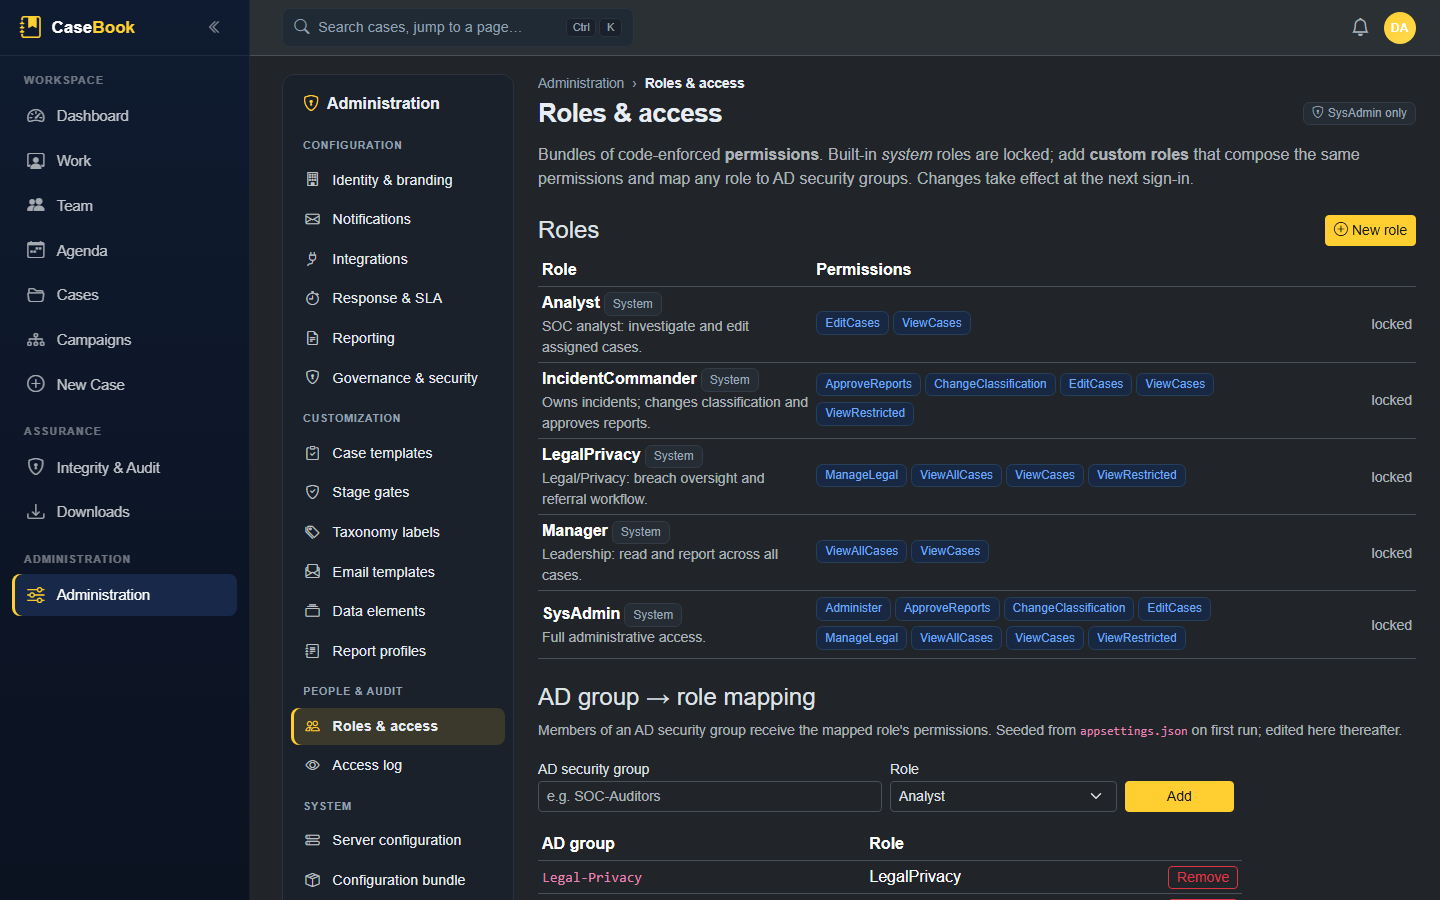
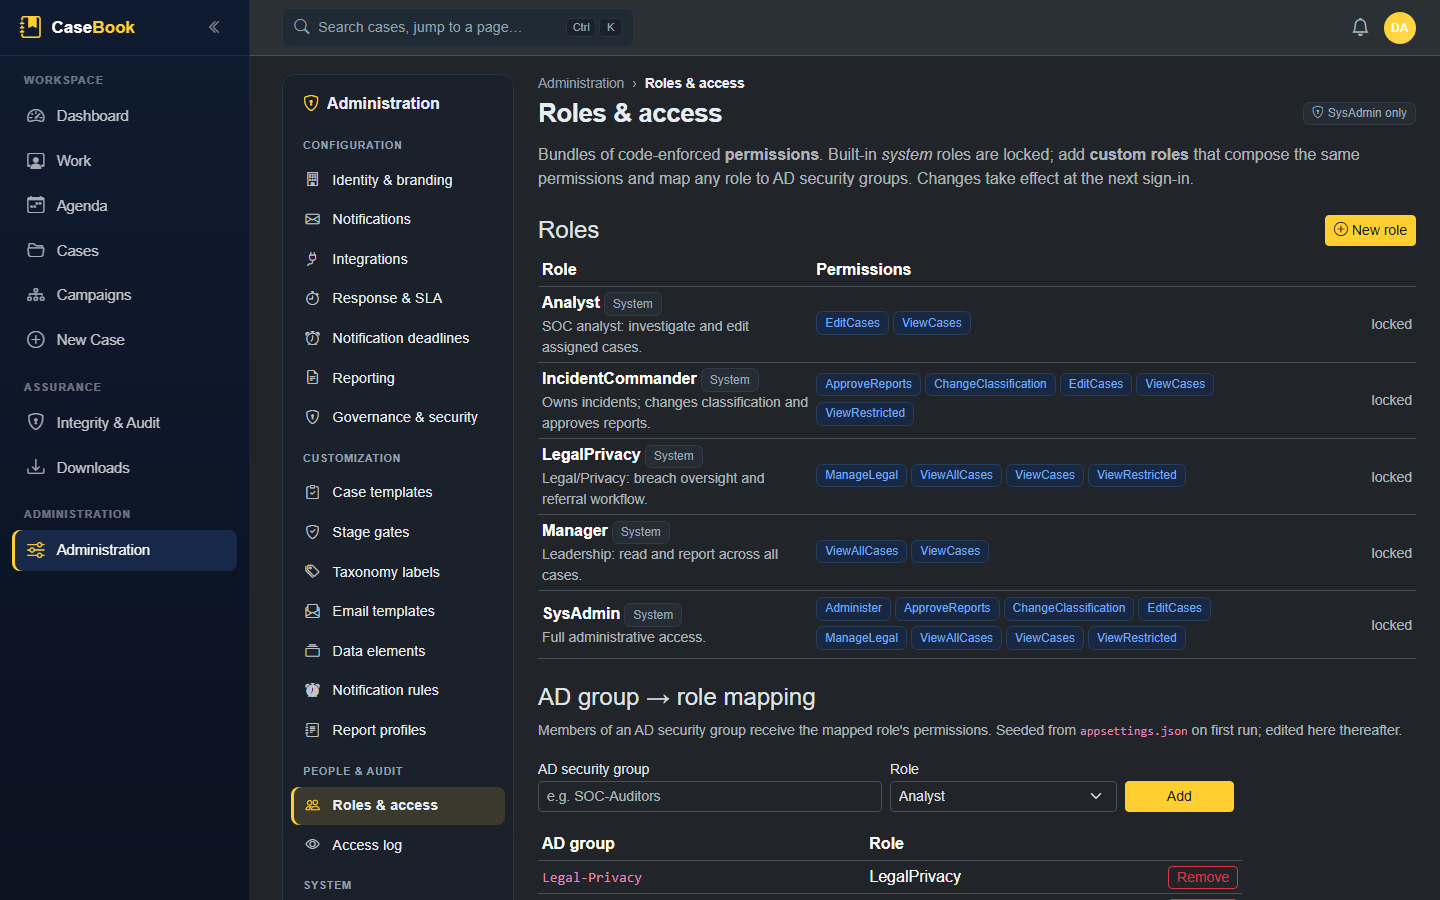
Refresh README screenshots + showcase compliance features (H-10)
Regenerate all screenshots against a fresh reseed and add two new shots for
this session's marquee work, so the README reflects the current UI (nav
consolidation, saved-views bar, materiality + notification-deadline badges).

- capture.mjs: add `discussion` (PROD-04 thread) and `notification-rules`
  (PROD-07 per-jurisdiction admin) shots — now 16.
- DevDataSeeder: a demo-only SeedComplianceShowcaseAsync (called only from
  InitializeAsync's demo path, so the SeedAsync base set tests use is
  unchanged) turns on the notification-deadline clock, tags data-element
  jurisdictions, records materiality on both breaches (one with a running
  per-jurisdiction deadline, one already reported), and seeds a short
  discussion thread — so the badges, the regulatory-notification countdown,
  the dashboard compliance block, and the Discussion tab all have content.
- README: new "Team discussion & @mentions" and "Notification deadlines"
  sections; refreshed the dashboard, case-workspace, administration, and
  config-bundle descriptions to mention materiality, notification deadlines,
  and the discussion tab.

Integration suite unchanged: 253 green.

diff --git a/src/IncidentManager.Infrastructure/Persistence/DevDataSeeder.cs b/src/IncidentManager.Infrastructure/Persistence/DevDataSeeder.cs
@@ -45,6 +45,90 @@ public static class DevDataSeeder
         // phase mix are populated out of the box. Kept OUT of SeedAsync so tests that call SeedAsync
         // directly still see exactly the three hand-authored cases.
         await SeedHistoricalDemoAsync(db, clock, ct);
+        // Lights up the compliance features (PROD-18 materiality + PROD-07 notification deadlines) and PROD-04
+        // discussion on the demo cases so they are visible in the app and README screenshots. Demo-only (not
+        // in SeedAsync), so tests that seed the base cases are unaffected.
+        await SeedComplianceShowcaseAsync(db, clock, ct);
+    }
+
+    /// <summary>
+    /// Demo-only showcase (not seeded in production or in the test base set): turns on the notification-deadline
+    /// clock, tags the notification jurisdictions the demo data elements trigger, records a materiality
+    /// determination on the two breaches (one with a running per-jurisdiction deadline, one already reported),
+    /// and adds a short discussion thread — so the materiality badge, the regulatory-notification countdown,
+    /// the dashboard compliance block, and the Discussion tab all have real content to show.
+    /// </summary>
+    public static async Task SeedComplianceShowcaseAsync(AppDbContext db, IClock clock, CancellationToken ct = default)
+    {
+        var now = clock.UtcNow;
+
+        // 1) Turn the feature on for the demo instance (a DB override over the OFF appsettings default).
+        if (!await db.AppSettings.AnyAsync(s => s.Key == "Compliance:NotificationDeadlines:Enabled", ct))
+            db.AppSettings.Add(new AppSetting
+            {
+                Key = "Compliance:NotificationDeadlines:Enabled", Value = "true",
+                UpdatedAtUtc = now, UpdatedBy = "system"
+            });
+
+        // 2) Tag which jurisdictions each personal-data category triggers notification in (also drives the
+        //    report's X-03 grouping). Applied only where an admin hasn't already set a value.
+        var juris = new Dictionary<string, string>(StringComparer.Ordinal)
+        {
+            ["SocialSecurityNumber"] = "US, NY",
+            ["FinancialAccountNumber"] = "US",
+            ["PaymentCard"] = "US",
+            ["MedicalOrHealthInfo"] = "NY",
+            ["DateOfBirth"] = "NY",
+        };
+        foreach (var e in await db.DataElements.Where(e => juris.Keys.Contains(e.Key)).ToListAsync(ct))
+            if (string.IsNullOrWhiteSpace(e.NotificationJurisdictions))
+            {
+                e.NotificationJurisdictions = juris[e.Key];
+                e.ModifiedBy = "system";
+                e.ModifiedAtUtc = now;
+            }
+        await db.SaveChangesAsync(ct);
+
+        // 3) Phishing breach — a live, still-open notification obligation: material, impact recorded, no report
+        //    filed yet, so the per-jurisdiction countdown is running (well inside its 72h window).
+        var phishing = await db.Cases.Include(c => c.DataElements)
+            .FirstOrDefaultAsync(c => c.CaseNumber == "2026-01_Phishing_Wave", ct);
+        if (phishing is not null)
+        {
+            phishing.SetImpactAssessment(1450, new[] { "SocialSecurityNumber", "DateOfBirth", "OnlineCredentials" },
+                "NY, NJ", "system", now.AddDays(-4));
+            phishing.RecordMateriality(MaterialityStatus.Material, "Disclosure Committee", now.AddDays(-1),
+                "NY resident NPI (SSNs) confirmed exposed — reasonable likelihood of harm; NYDFS Part 500 applies.",
+                "legal1", now.AddDays(-1));
+
+            db.CaseComments.Add(new CaseComment
+            {
+                CaseId = phishing.Id, Body = "Handing off to day shift — mailbox rules cleared, creds reset. "
+                    + "Legal has the affected-user list; awaiting the materiality call.",
+                CreatedBy = "ic1", CreatedAtUtc = now.AddDays(-2)
+            });
+            db.CaseComments.Add(new CaseComment
+            {
+                CaseId = phishing.Id, Body = "Disclosure committee determined this **material**. NYDFS 72h clock is running — "
+                    + "please confirm the NY + federal notification drafts.",
+                CreatedBy = "legal1", CreatedAtUtc = now.AddDays(-1)
+            });
+            await db.SaveChangesAsync(ct);
+        }
+
+        // 4) Vendor breach — the obligation was met: material, impact recorded, and reported to regulators, so
+        //    it feeds the dashboard's detected → reported mean and shows a "Met" deadline outcome.
+        var vendor = await db.Cases.Include(c => c.DataElements)
+            .FirstOrDefaultAsync(c => c.CaseNumber == "2026-02_Vendor_SaaS_Breach", ct);
+        if (vendor is not null)
+        {
+            vendor.SetImpactAssessment(320, new[] { "SocialSecurityNumber", "ClaimsData", "MedicalOrHealthInfo" },
+                "NY", "system", now.AddDays(-3));
+            vendor.RecordMateriality(MaterialityStatus.Material, "General Counsel", now.AddDays(-2),
+                "Vendor-confirmed exposure of policyholder NPI.", "legal1", now.AddDays(-2));
+            vendor.MarkReported(now.AddDays(-2).AddHours(20), "legal1", now.AddDays(-2).AddHours(20));
+            await db.SaveChangesAsync(ct);
+        }
     }
 
     /// <summary>

diff --git a/README.md b/README.md
@@ -11,17 +11,21 @@ auto-generated Word/PDF reports, on a **tamper-evident, hash-chained audit trail
 
 ### Leadership dashboard
 Headline open-items tile with classification mix, attention stats, an open-items-by-phase pipeline,
-response times against SLA targets, and a **12-month case-activity bar chart** (opened vs. closed) plus
-an open-items sparkline — all derived from case timestamps — with one-click metrics CSV export (incl.
-monthly & quarterly rollups) for board / regulatory packs.
+response times against SLA targets, a **regulatory-notification** compliance block (detected→reported
+mean, awaiting-report, and at-risk/overdue deadlines), and a **12-month case-activity bar chart** (opened
+vs. closed) plus an open-items sparkline — all derived from case timestamps — with one-click metrics CSV
+export (incl. monthly & quarterly rollups) for board / regulatory packs.
 
 ![Leadership dashboard](docs/screenshots/dashboard.png)
 
 ### Case workspace
 The analyst's hub: a NIST SP 800-61 lifecycle bar, tabbed **Overview / Timeline / Entities /
-Evidence / Notes / Tasks / Report / Audit**, true **detected / occurred** timestamps (with
+Evidence / Notes / Discussion / Tasks / Report / Audit**, true **detected / occurred** timestamps (with
 dwell-before-detection and per-severity SLA targets), **links to related cases**, and a structured
-impact assessment (affected individuals, data-element taxonomy, and jurisdictions).
+impact assessment (affected individuals, data-element taxonomy, and jurisdictions). The header carries
+at-a-glance status badges — SLA, **materiality** (material / not material, a Legal/committee decision the
+tool records but does not make), and the **regulatory notification** countdown — alongside the classic
+classification/severity/legal chips.
 
 ![Case workspace](docs/screenshots/case-workspace.png)
 
@@ -40,6 +44,14 @@ Two separate chronologies per case — the **event** timeline (facts and timing 
 **investigation** timeline (analyst/team actions) — each typed, sourced, and audited.
 
 ![Timeline](docs/screenshots/timeline.png)
+
+### Team discussion &amp; @mentions
+A durable, **hash-chained** discussion thread per case (part of the audited record, unlike ephemeral
+presence) for cross-role handoffs — Markdown, one-level replies, and **@mentions** that notify the
+mentioned teammates through the notification pipeline (email and/or chat). Open to everyone who can see
+the case, so an analyst, IC, and Legal work from one shared trail.
+
+![Team discussion](docs/screenshots/discussion.png)
 
 ### Entities &amp; relationship graph
 Every case's indicators and entities — accounts, hosts, IPs, domains, URLs, file hashes — captured with
@@ -87,7 +99,7 @@ workspaces also show a leadership-only **"Viewed by"** panel.
 
 ### Administration
 SysAdmin-only admin hub. A single left rail groups every admin area — configuration, customization
-(templates, stage gates, taxonomy labels, **data elements**, report profiles), people & audit, and
+(templates, stage gates, taxonomy labels, **data elements**, **notification rules**, report profiles), people & audit, and
 a **configuration bundle** plus read-only system views. Operational settings are edited in-app and
 stored as **audited, hash-chained** records; security- and infrastructure-sensitive settings stay in
 server-side configuration and are shown read-only (secrets as status only). The main sidebar collapses
@@ -106,9 +118,21 @@ an element no case uses can be deleted outright. Every change is audited.
 
 ![Data elements](docs/screenshots/data-elements.png)
 
+### Notification deadlines
+Per-jurisdiction **regulatory notification deadlines** (e.g. New York / NYDFS Part 500 = 72h) as
+admin-managed reference data — add, retime, or archive **without a release**. Each rule's code is matched
+against the notification jurisdictions on the case's data elements, so a case's involved data determines
+which deadlines apply; anything untuned falls back to a default window. The whole feature is a master
+toggle (shipped **off**), and the clock starts from the **materiality determination** (or, optionally,
+detection). The countdown surfaces on the case (a header badge and a per-jurisdiction table with a
+one-click **"Mark reported"**) and aggregates on the leadership dashboard (detected→reported mean,
+awaiting-report, and at-risk/overdue) — reminders only, never an automatic state change.
+
+![Notification deadlines](docs/screenshots/notification-rules.png)
+
 ### Configuration bundle
 Export an instance's **editable configuration** — operational & taxonomy settings, roles & AD mappings,
-case templates, stage gates, report profiles, and data elements — as a single **signed, versioned**
+case templates, stage gates, report profiles, data elements, and notification-deadline rules — as a single **signed, versioned**
 JSON "seed pack" to snapshot a setup, diff it against an IRP revision, promote config from a test
 instance to production, or stand up a new **white-label** instance from a known baseline. Import is
 **additive and previewed**: the signature is verified first, then a diff shows exactly what would change
